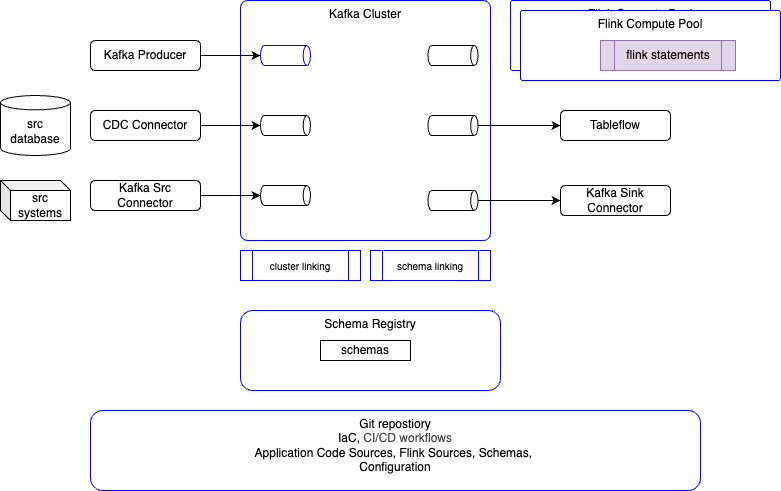
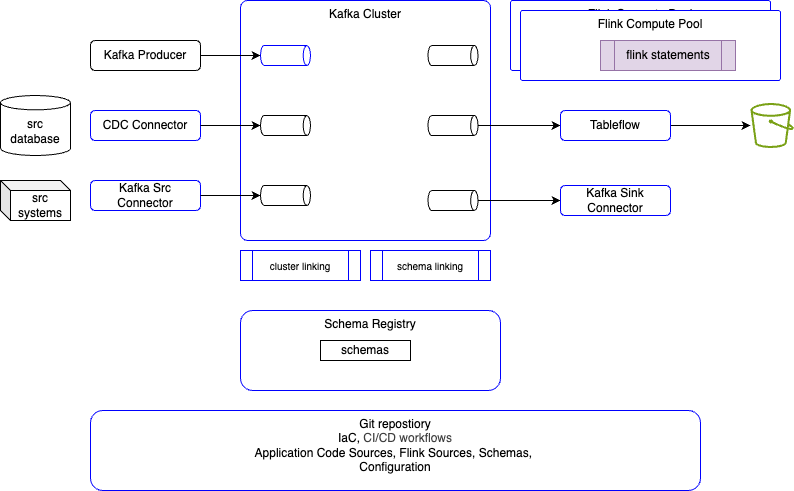
add dr schema note

diff --git a/docs/cookbook/cluster_mgt.md b/docs/cookbook/cluster_mgt.md
@@ -388,6 +388,13 @@ For Confluent Platform / Kubernetes with shared durable storage and Kafka replic
 * Consumer offset sync (Confluent Cloud) is asynchronous; after failover, consumers may see a small number of duplicates—design for idempotency.
 * Confluent Cloud is regional: there is no built-in cross-region state replication; you achieve DR by running Flink in the DR region and feeding it from replicated Kafka/Schema Registry.
 
+#### Schema Management
+
+* When disaster failover happens, Flink can keep reading schema-based data only if schemas have already been replicated to the DR region’s Schema Registry via Schema Linking.
+* In the standard DR pattern, primary SR stays READWRITE, secondary SR stays IMPORT, and during failover you must reverse the schema link. [See product documentation](https://docs.confluent.io/cloud/current/sr/schema-linking.html#configure-credentials-on-the-destination).
+* On failover, ensure Schema Link is caught up, then promote/switch Kafka side.
+* If you need Flink to run CREATE TABLE after failover, the DR side must allow schema writes to the active SR and the user/service account must have the required SR/Kafka permissions
+
 ### 3.2 Backup/restore of state backend
 
 #### Context